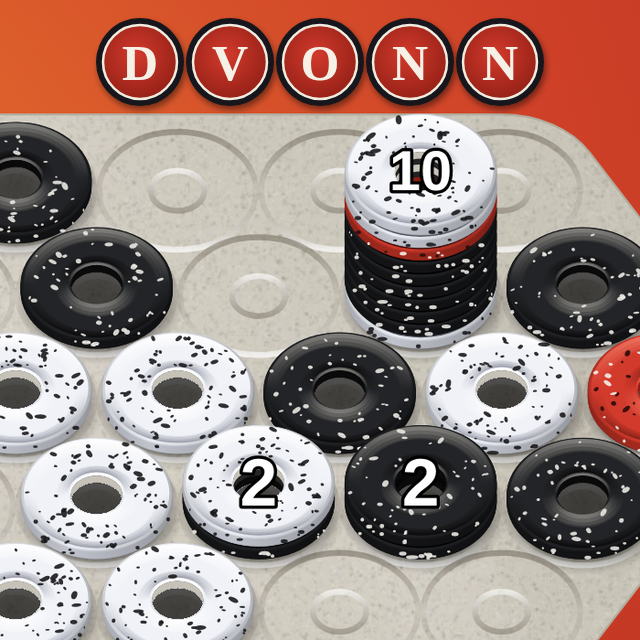
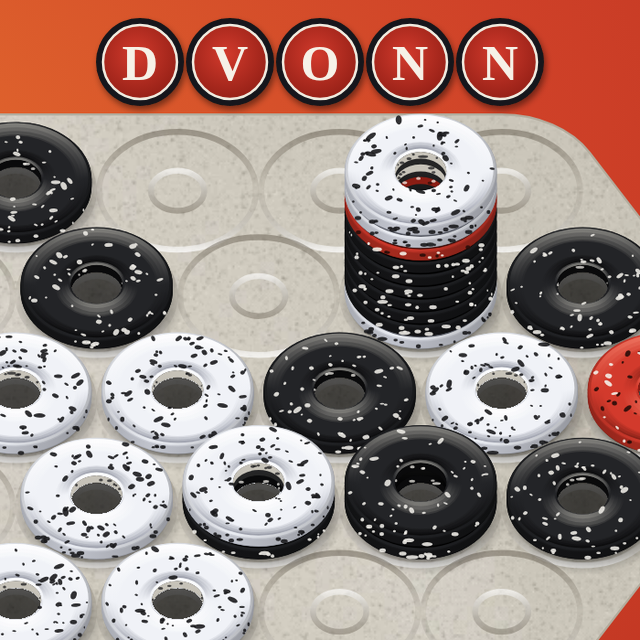
Speck every surface of DVONN's pieces, and drop the counts from the cover
The far wall down each hole, the rounded lip into it and the thinned
bands of a tall stack now carry flecks, at the same density per area as
the face and side (white sides get nearly twice as many as before).
The cover keeps its crop without the counts.

Claude-Session: https://claude.ai/code/session_01T2Axx5HCwVKnkzeRZ5ZsuR

diff --git a/games/dvonn-ui/src/lib/components/StackShape.svelte b/games/dvonn-ui/src/lib/components/StackShape.svelte
@@ -23,6 +23,7 @@
         PIECE_STYLES,
         seedOf,
         sideSpecks,
+        wallSpecks,
         type Tone
     } from '$lib/board/pieceStyle.js'
 
@@ -69,7 +70,8 @@
                 ...disc,
                 tone,
                 style: PIECE_STYLES[tone],
-                sideSpecks: disc.full ? sideSpecks(tone, seed) : [],
+                seed,
+                sideSpecks: sideSpecks(tone, seed, model.thickness),
                 specks: top ? faceSpecks(tone, seed, model.hole) : [],
                 top,
                 catch: catchLight > 0 && tone === 'black' && tones[index + 1] === 'black'
@@ -85,14 +87,33 @@
     const hole = $derived.by(() => {
         if (!top) return undefined
         const pitch = drawing.height + model.gap * radius * RISE
-        const walls = pieces.toReversed().map((piece, index) => {
-            const base = top.base + index * pitch
-            return {
-                band: wallBand(shift(drawing.opening, base), shift(drawing.bottomOpening, base)),
-                color: piece.style.wall
-            }
-        })
         const opening = shift(drawing.opening, top.base)
+        // Walls whose top lies below the opening's near edge are out of sight.
+        const walls = pieces
+            .toReversed()
+            .map((piece, index) => {
+                const upper = shift(drawing.opening, top.base + index * pitch)
+                const lower = shift(drawing.bottomOpening, top.base + index * pitch)
+                const depth = lower.y - upper.y
+                return {
+                    band: wallBand(upper, lower),
+                    style: piece.style,
+                    seen: upper.y - upper.ry < opening.y + opening.ry,
+                    specks: wallSpecks(piece.tone, piece.seed, model.hole, model.thickness).map(
+                        (speck) => {
+                            const turn = Math.PI * speck.turn
+                            return {
+                                x: -upper.rx * Math.cos(turn),
+                                y: upper.y - upper.ry * Math.sin(turn) + speck.v * depth,
+                                rx: speck.r * radius * speck.stretch * Math.sin(turn),
+                                ry: Math.min(speck.r * radius, depth * 0.2),
+                                alt: speck.alt
+                            }
+                        }
+                    )
+                }
+            })
+            .filter((wall) => wall.seen)
         const bottom = shift(drawing.bottomOpening, top.base + (pieces.length - 1) * pitch)
         return {
             opening,
@@ -181,6 +202,18 @@
                 stroke={creaseColor(piece.tone)}
                 stroke-width={Math.min(0.6, piece.side * 0.3)}
             ></path>
+            {#each piece.sideSpecks as speck, s (s)}
+                <ellipse
+                    cx={speck.x * radius}
+                    cy={piece.base -
+                        piece.side * (1 - speck.v) +
+                        radius * TILT * Math.sqrt(1 - speck.x * speck.x)}
+                    rx={speck.r * radius * speck.stretch * Math.sqrt(1 - speck.x * speck.x)}
+                    ry={Math.min(speck.r * radius, piece.side * 0.35)}
+                    fill={speck.alt ? piece.style.speckAlt : piece.style.speck}
+                    class="speck"
+                ></ellipse>
+            {/each}
         {/if}
     {/each}
 </g>
@@ -191,7 +224,17 @@
     <g clip-path="url(#{openingId})">
         <path d={hole.shadow} class="hole-shadow"></path>
         {#each hole.walls as wall, index (index)}
-            <path d={wall.band} fill={wall.color}></path>
+            <path d={wall.band} fill={wall.style.wall}></path>
+            {#each wall.specks as speck, s (s)}
+                <ellipse
+                    cx={speck.x}
+                    cy={speck.y}
+                    rx={speck.rx}
+                    ry={speck.ry}
+                    fill={speck.alt ? wall.style.speckAlt : wall.style.speck}
+                    class="speck wall-speck"
+                ></ellipse>
+            {/each}
         {/each}
     </g>
     {#each top.specks as speck, s (s)}
@@ -212,6 +255,11 @@
 <style>
     .speck {
         opacity: 0.9;
+    }
+
+    /* Inside the hole, in shadow. */
+    .wall-speck {
+        opacity: 0.75;
     }
 
     .catch {

diff --git a/games/dvonn-ui/src/lib/board/pieceStyle.ts b/games/dvonn-ui/src/lib/board/pieceStyle.ts
@@ -69,13 +69,27 @@ export type SideSpeck = {
     angle: number
     alt: boolean
 }
+// A speck on the far half of the hole's wall: `turn` around it from one side (0) to the other
+// (1), v down it.
+export type WallSpeck = {
+    turn: number
+    v: number
+    r: number
+    stretch: number
+    angle: number
+    alt: boolean
+}
 
-// Black flecks on white read as sparser than white flecks on black, so white carries more.
-const FACE_SPECKS: Record<Tone, number> = { white: 70, black: 45, red: 45 }
-const SIDE_SPECKS = 10
+// Flecks per unit of area (the piece's radius squared), the same on every surface. Black flecks
+// on white read as sparser than white flecks on black, so white carries more.
+const SPECK_DENSITY: Record<Tone, number> = { white: 29.7, black: 19.1, red: 19.1 }
 
 // The share of a piece's flecks in its second color.
 const ALT_SHARE: Record<Tone, number> = { white: 0, black: 0, red: 0.45 }
+
+function speckCount(tone: Tone, area: number): number {
+    return Math.round(SPECK_DENSITY[tone] * area)
+}
 
 function speckShape(random: () => number, tone: Tone) {
     return {
@@ -88,9 +102,9 @@ function speckShape(random: () => number, tone: Tone) {
 
 export function faceSpecks(tone: Tone, seed: number, holeRatio: number): Speck[] {
     const random = seededRandom(seed)
-    const inner = holeRatio + 0.05
+    const inner = holeRatio + 0.01
     const outer = 0.95
-    return Array.from({ length: FACE_SPECKS[tone] }, () => {
+    return Array.from({ length: speckCount(tone, Math.PI * (outer ** 2 - inner ** 2)) }, () => {
         const angle = random() * Math.PI * 2
         const distance = Math.sqrt(inner ** 2 + (outer ** 2 - inner ** 2) * random())
         return {
@@ -101,10 +115,26 @@ export function faceSpecks(tone: Tone, seed: number, holeRatio: number): Speck[]
     })
 }
 
-export function sideSpecks(tone: Tone, seed: number): SideSpeck[] {
+// The near half of the outer side, `thickness` of the radius tall.
+export function sideSpecks(tone: Tone, seed: number, thickness: number): SideSpeck[] {
     const random = seededRandom(seed ^ 0x5f3759df)
-    return Array.from({ length: SIDE_SPECKS }, () => ({
+    return Array.from({ length: speckCount(tone, Math.PI * thickness) }, () => ({
         x: (random() * 2 - 1) * 0.94,
+        v: 0.2 + random() * 0.6,
+        ...speckShape(random, tone)
+    }))
+}
+
+// The far half of the hole's wall, the only half seen from above.
+export function wallSpecks(
+    tone: Tone,
+    seed: number,
+    holeRatio: number,
+    thickness: number
+): WallSpeck[] {
+    const random = seededRandom(seed ^ 0x2545f491)
+    return Array.from({ length: speckCount(tone, Math.PI * holeRatio * thickness) }, () => ({
+        turn: 0.06 + random() * 0.88,
         v: 0.2 + random() * 0.6,
         ...speckShape(random, tone)
     }))

diff --git a/games/dvonn-ui/docs/ui-interaction-visual-contract.md b/games/dvonn-ui/docs/ui-interaction-visual-contract.md
@@ -10,7 +10,7 @@
 
 ## 2. Visual Primitives
 
-- **Stack** (`StackShape.svelte`, sizes in `board/pieceGeometry.ts`, colors and specks in `board/pieceStyle.ts`): donut pieces seen at an angle, each showing a band of its side below the face above it; only the top piece shows its face; each black piece with another black one on top catches a faint light along the top of its band, so stacked black pieces part. The hole is open: down it show the inner walls of the pieces in turn, each at its true thickness with a thin seam between pieces, and below them the board once the stack is low enough. Past ten pieces a stack rises no higher and its bands thin out, except DVONN pieces, which keep most of their thickness so a buried one stays a clear red band. A stack of two or more carries its count in the top piece's hole, white outlined in black. Speckled like the real pieces, seeded by the space. Never carries interaction state.
+- **Stack** (`StackShape.svelte`, sizes in `board/pieceGeometry.ts`, colors and specks in `board/pieceStyle.ts`): donut pieces with a dished top seen from the near side of the table, nested with a dark seam between them; only the top piece shows its face. The hole is open: down it show the inner walls of the pieces in turn, each at its true thickness with a thin seam between pieces, and below them the board once the stack is low enough. Past thirteen pieces a stack rises no higher and its bands thin out, except DVONN pieces, which keep most of their thickness so a buried one stays a clear red band. A stack of two or more carries its count in the top piece's hole, white outlined in black. Speckled like the real pieces on every surface (face, side, hole wall, thinned bands) at one density per area, seeded by the space each piece was placed on. Never carries interaction state.
 - **Shadows** (`Board.svelte`): a radial-gradient ellipse under each stack, inside the stack's animated group, so it moves and fades with it. No filters on pieces.
 - **Board** (`Board.svelte`, `graphBoard` title preference, `BoardStyleToggle` showing the board a press switches to): the old edition's pale sand (`board/sand.ts`, grain drawn once on a canvas, clipped to the rounded outline from `board/geometry.ts`) pressed with a ring at every space, by default; or the newer graph board, black lines along the three directions through every space with short whiskers, on a pale area that ends at the outer lines.
 - **Marks** (`Board.svelte`, drawn in each stack's group after the stack but outside its moving group, so nearer stacks cover them as they cover pieces; the animator fades every mark with the move): two-tone ellipses, a dark band under a cyan core (`--dvonn-mark`), drawn on the top face's moulded rim at the stack's current height, so a mark never reaches a neighbour. Inputs `session.movable`, `session.chosenFrom`, `session.destinations`.
